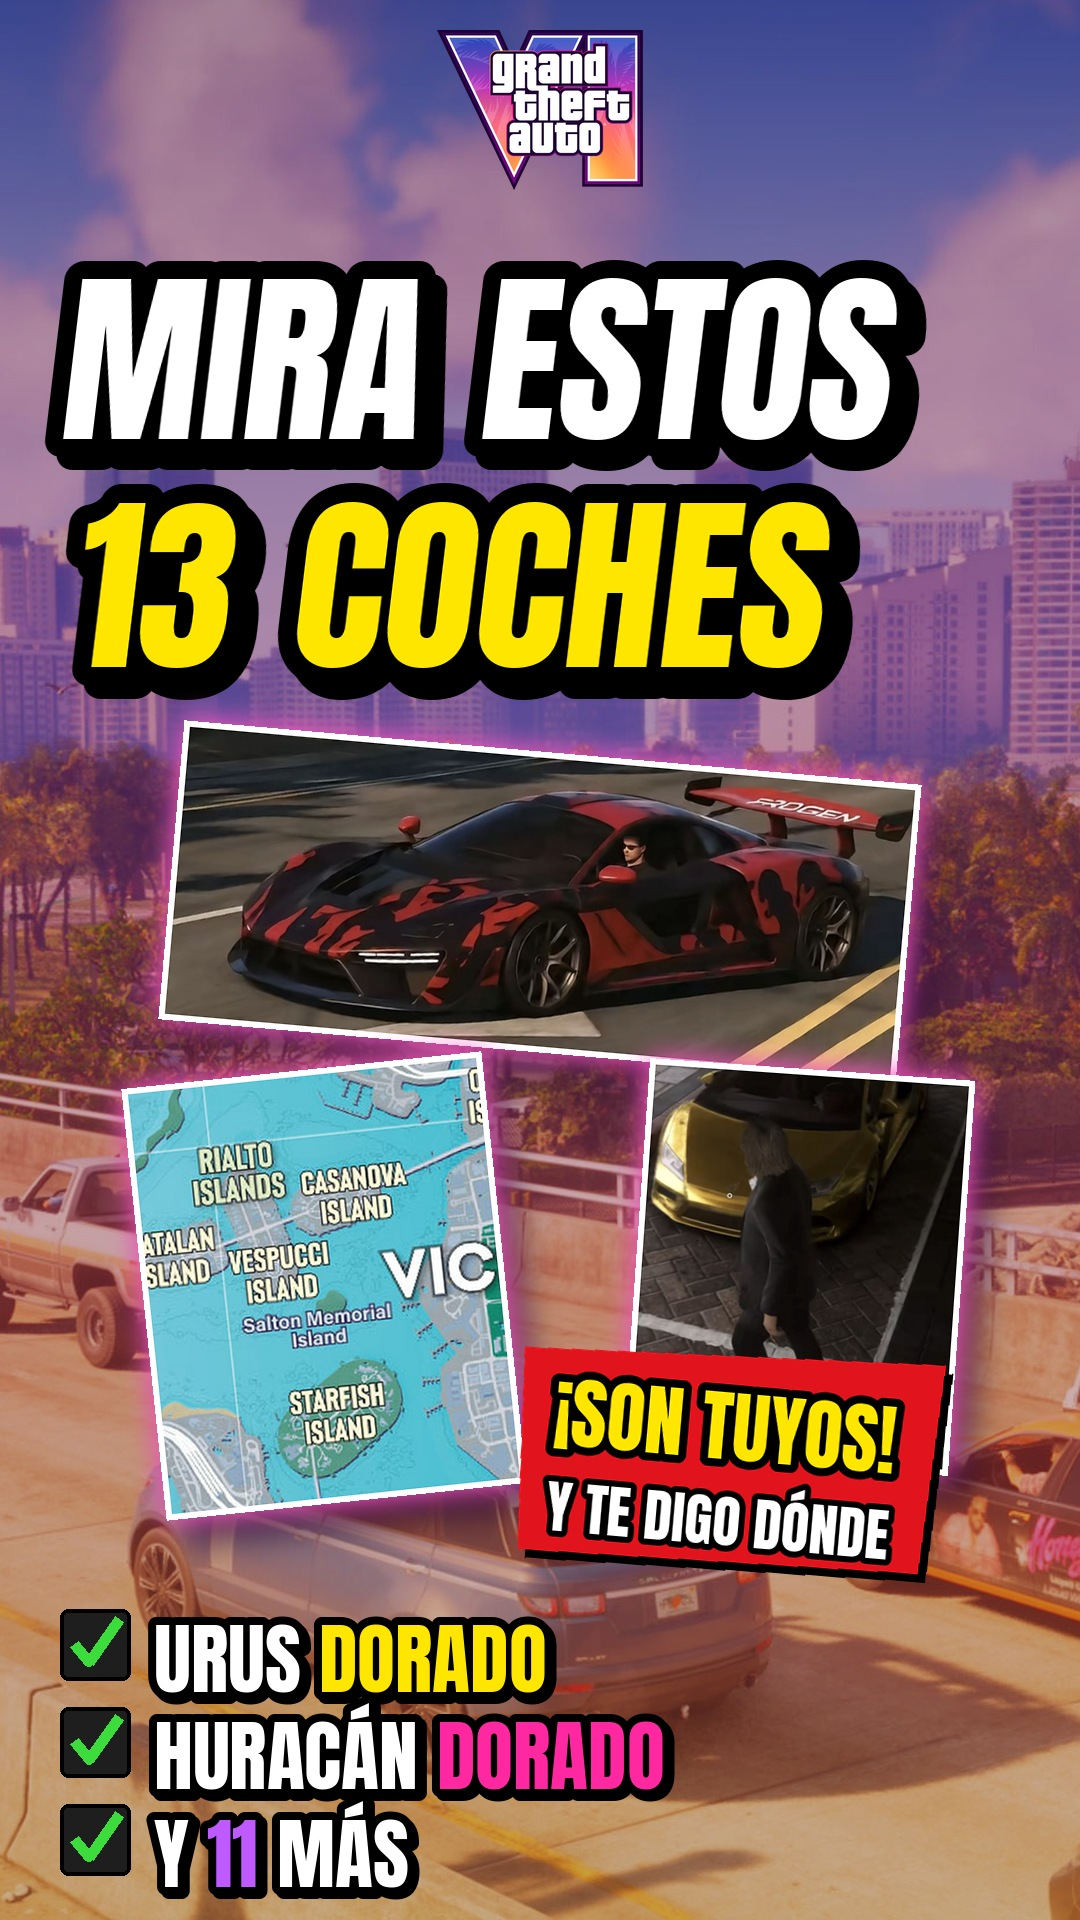
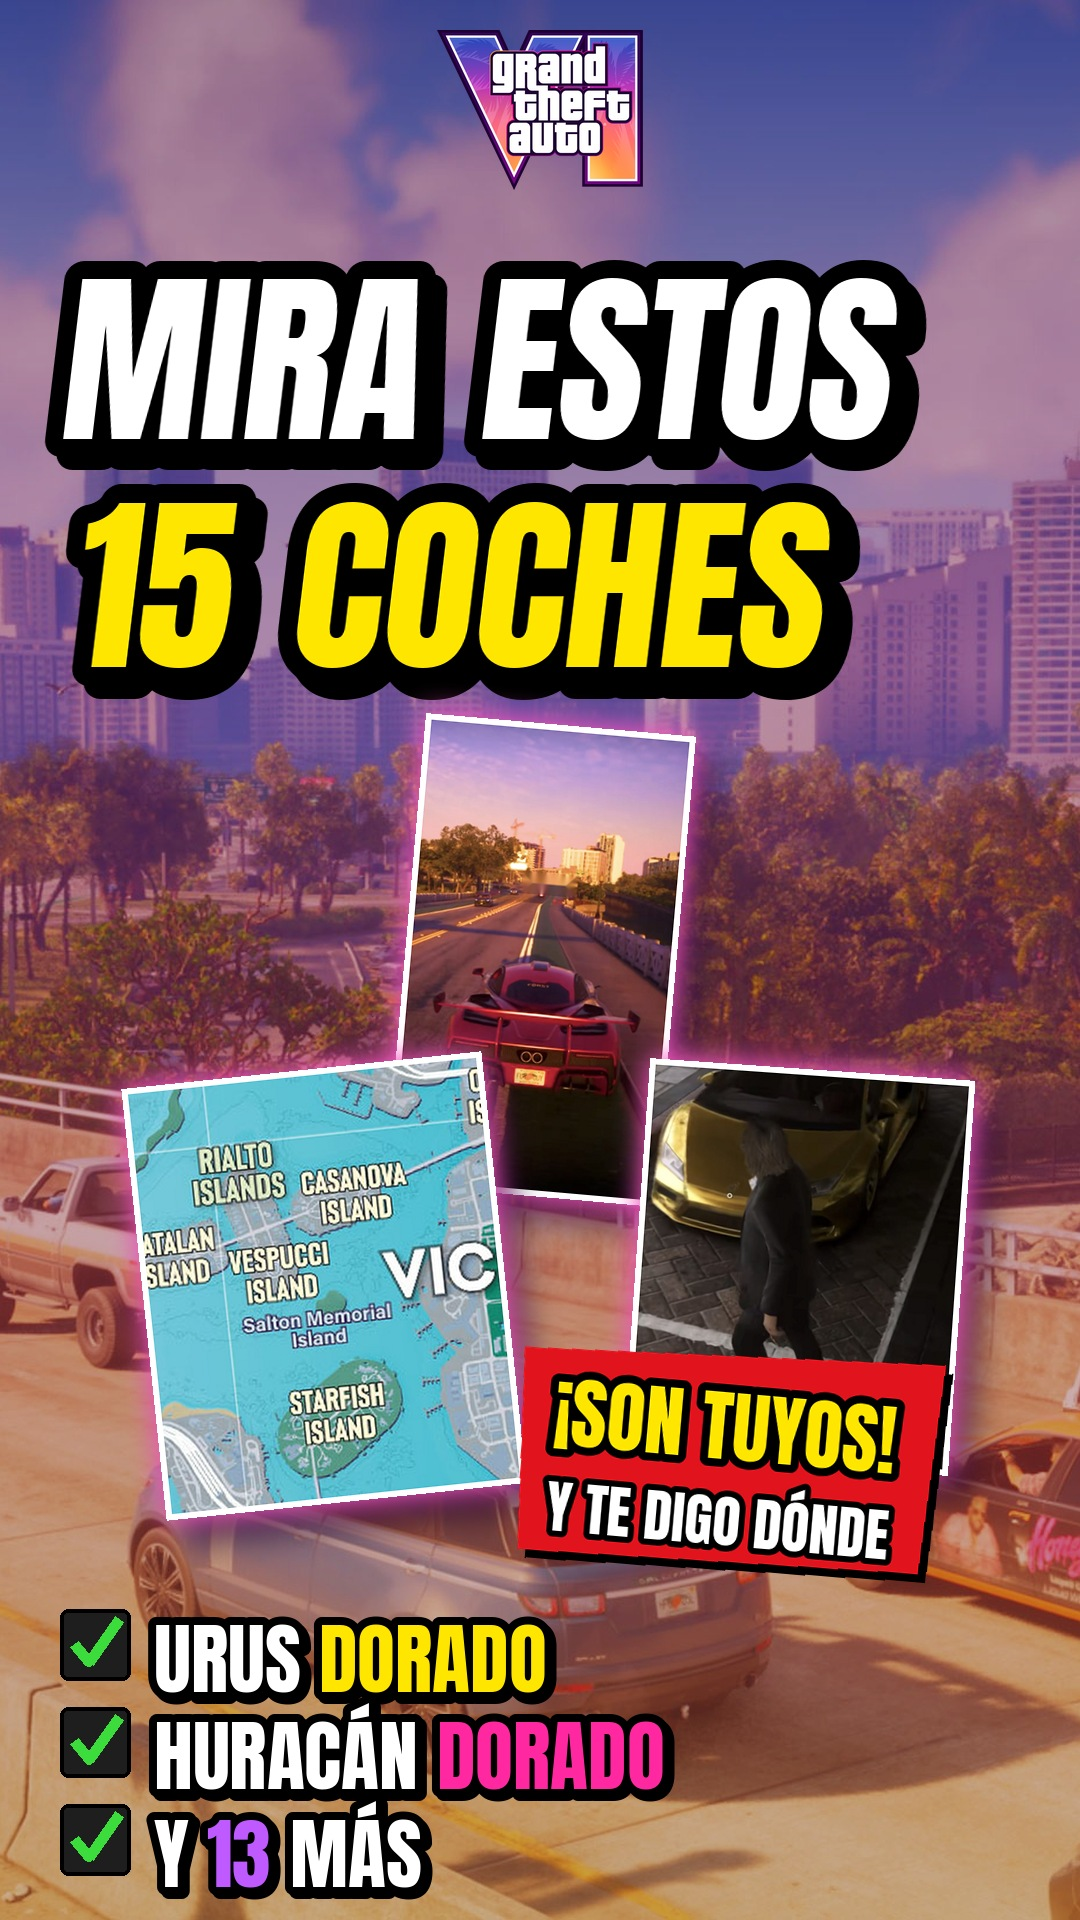
Coches que puedes conseguir: 15 coches (Emerus de la mansión, Emerus morado y Toros de La Perle)
Claude-Session: https://claude.ai/code/session_013MoWpNiFMbWerhH5TTscuF

Changed region(s): [[0.1222, 0.25, 0.8861, 0.6562], [0.2139, 0.9375, 0.3972, 1.0]]

diff --git a/canal/guiones_dinero.py b/canal/guiones_dinero.py
@@ -566,15 +566,17 @@ V("d28-coches-reales", "DESDE EL CAP. 2",
    B("Envíaselo a ese amigo que se sabe todos los coches. Y pregúntale...", ["img:u_lb_evo!"]),
   ], titulo="LOS COCHES🏎 que puedes tener en gta VI"),
 V("d29-coches-raros", "¡SON TUYOS!",
-  "Mira los 13 coches que puedes conseguir en GTA 6 y dónde está cada uno 🏎 El Emerus rojo, el clon del Eclipse, el Lamborghini Urus dorado (Pegassi Toros), el Huracán dorado (Pegassi Tempesta), los del garaje de Starfish Island y más\n\n"
+  "Mira los 15 coches que puedes conseguir en GTA 6 y dónde está cada uno 🏎 Los dos Emerus (el rojo de Vespucci y el morado de Chatfield), el clon del Eclipse, los dos Lamborghini Urus dorados (Pegassi Toros), el Huracán dorado (Pegassi Tempesta), los del garaje de Starfish Island y más\n\n"
   "gta 6, coches gta 6, lamborghini gta 6, coches raros gta 6, coche gratis gta 6, urus gta 6, huracan gta 6, pegassi toros gta 6, starfish island gta 6, casanova island gta 6\n\n"
   "#shorts #videoshorts #gta6 #cochesgta6 #lamborghini",
   [
-   B("¡Mira los *trece* coches que puedes conseguir en GTA seis! Este Emerus rojo y negro puede ser tuyo...",
-     ["img:u_rc_emerus!"], stat="13 COCHES", golpe=True),
-   B("... en la puerta de una mansión de Vespucci Island.", ["map:ves"]),
+   B("¡Mira los *quince* coches que puedes conseguir en GTA seis! Este Emerus rojo puede ser tuyo...",
+     ["img:u_vesp_emerus3"], stat="15 COCHES", golpe=True),
+   B("... en la mansión de un narco de Vespucci Island. Entra por detrás y te lo llevas.", ["map:ves", "img:u_vesp_emerus"], cortes=["Entra"]),
    B("En la misma isla, en un garaje, el clon del Eclipse verde de A todo gas.", ["img:u_rc_penumbra!"],
      gfx=[dict(t="icono", emoji="🟢", titulo="MAIBATSU PENUMBRA", sub="Vespucci Island · en un garaje", y=0.2, desde="garaje")]),
+   B("Y otro Emerus, el morado, en el almacén Chatfield, junto a Waxman Island. La caja fuerte es la cinco ocho cero cero.", ["map:cf"],
+     gfx=[dict(t="icono", emoji="💜", titulo="EMERUS MORADO", sub="Chatfield Storage · caja 5800", y=0.78, desde="morado")]),
    B("Un deportivo verde claro, en Stockyard, al norte de Bayside.", ["map:stock"],
      gfx=[dict(t="icono", emoji="💚", titulo="DEPORTIVO VERDE CLARO", sub="Stockyard · al norte de Bayside", y=0.78, desde="deportivo")]),
    B("Un muscle car negro y naranja, en la zona industrial de Ambrosia.", ["map:amb"],
@@ -589,6 +591,8 @@ V("d29-coches-raros", "¡SON TUYOS!",
      ["map:casa", "img:u_lb_urus!", "img:u_lb_urus2!"], cortes=["Lamborghini", "Matrícula"], riser=True,
      gfx=[dict(t="icono", emoji="🏎", titulo="PEGASSI TOROS", sub="= Lamborghini Urus", y=0.2, desde="Pegassi", hasta="Matrícula"),
           dict(t="icono", emoji="💰", titulo="CASH TALKS", sub="la matrícula", y=0.2, desde="Matrícula")]),
+   B("Y otro Urus dorado, en un narcopiso de La Perle. Salta la valla roja del lateral.", ["map:lp", "img:u_toros_coche!"], cortes=["Salta"],
+     gfx=[dict(t="icono", emoji="🚧", titulo="LA VALLA ROJA", sub="entra por el lateral", y=0.2, desde="valla")]),
    B("A los pies de la torre Crimson Palms, en Vice City, un Huracán dorado: el Pegassi Tempesta.",
      ["img:u_lb_torre!", "img:u_lb_huracan!"], cortes=["Huracán"],
      gfx=[dict(t="icono", emoji="🐂", titulo="PEGASSI TEMPESTA", sub="= Lamborghini Huracán", y=0.2, desde="Tempesta")]),
@@ -600,12 +604,14 @@ V("d29-coches-raros", "¡SON TUYOS!",
      gfx=[dict(t="icono", emoji="🔑", titulo="DESDE EL CAPÍTULO 2", sub="si no está, vuelve más tarde", y=0.2, desde="capítulo")]),
    B("Envíaselo a ese amigo que sigue con el coche del principio. Y dile...", ["ol_078"]),
   ], titulo="MIRA ESTOS🏎 coches que puedes conseguir en gta 6",
-  mapas=dict(ves=dict(lugar="Vespucci Island", desde_lugar="Vice City", zoom=(1.6, 4.6), pins=[("Vespucci Island", "mansión", "El Emerus")]),
+  mapas=dict(ves=dict(lugar="Vespucci Island", desde_lugar="Vice City", zoom=(1.6, 4.6), pins=[("Vespucci Island", "narco", "La mansión")]),
              stock=dict(lugar="Stockyard", desde_lugar="Vespucci Island", zoom=(3.0, 4.6), pins=[("Stockyard", "Stockyard", "Stockyard")]),
              amb=dict(lugar="Ambrosia", desde_lugar="Stockyard", zoom=(1.8, 4.0), pins=[("Ambrosia", "Ambrosia", "Ambrosia")]),
              star=dict(lugar="Starfish Island", desde_lugar="Vice City", zoom=(2.4, 4.8), pins=[("Starfish Island", "Starfish", "La mansión")]),
              capri=dict(lugar="Capri", desde_lugar="Port Gellhorn", zoom=(2.4, 4.4), pins=[("Capri", "Capri", "Capri · el garaje")]),
-             casa=dict(lugar="Casanova Island", desde_lugar="Starfish Island", zoom=(3.4, 4.8), pins=[("Casanova Island", "Casanova", "El Toros dorado")]))),
+             casa=dict(lugar="Casanova Island", desde_lugar="Starfish Island", zoom=(3.4, 4.8), pins=[("Casanova Island", "Casanova", "El Toros dorado")]),
+             cf=dict(lugar="Chatfield Storage", desde_lugar="Vespucci Island", zoom=(3.0, 4.6), pins=[("Chatfield Storage", "Chatfield", "Chatfield Storage")]),
+             lp=dict(lugar="La Perle", desde_lugar="Casanova Island", zoom=(2.0, 4.4), pins=[("La Perle", "Perle", "El narcopiso")]))),
 ]
 # portadas «cargadas» hechas a mano (estilo de la 2.ª referencia): el motor las pone como último fotograma
 for _v in VIDEOS:

diff --git a/canal/portadas_especiales_d29.py b/canal/portadas_especiales_d29.py
@@ -8,8 +8,8 @@ W, H = 1080, 1920
 b = mn._fondo("extra/x050_hero_background_ultrawide.jpg", W, H, (0.5, 0.5)).convert("RGBA")
 b.alpha_composite(Image.new("RGBA", (W, H), (25, 5, 45, 60)))
 mn.pegar_logo(b, "extra/x126_poster_logo.png", W / 2, 30, 160, centro=True)
-mn.texto_color(b, ["MIRA ESTOS", "*13* *COCHES*"], W * .47, 215, W - 220, 190)
-mn._figura(b, dict(img="u_rc_emerus.jpg", x=.5, y=.47, h=.15, rot=-5, marco=True), W, H)
+mn.texto_color(b, ["MIRA ESTOS", "*15* *COCHES*"], W * .47, 215, W - 220, 190)
+mn._figura(b, dict(img="u_vesp_emerus3.jpg", x=.5, y=.5, h=.24, rot=-5, marco=True), W, H)
 m = Image.open(mn._ruta("oficial_extra/Leonida_Map_Poster.jpg")).convert("RGB")
 cx, cy = .786 * m.width, .49 * m.height
 r = .045 * m.width
@@ -21,5 +21,5 @@ d = None
 mn._figura(b, dict(img=m, x=.3, y=.67, h=.22, rot=6, marco=True), W, H)
 mn._figura(b, dict(img="u_lb_huracan.jpg", x=.74, y=.66, h=.2, rot=-4, marco=True), W, H)
 mn.sello(b, "¡SON TUYOS!", "Y TE DIGO DÓNDE", W * .68, 1460, 420, rot=-5)
-mn.lista(b, ["URUS *DORADO*", "HURACÁN _DORADO_", "Y ~11~ MÁS"], 60, 1600, 78)
+mn.lista(b, ["URUS *DORADO*", "HURACÁN _DORADO_", "Y ~13~ MÁS"], 60, 1600, 78)
 b.convert("RGB").save(sys.argv[1], quality=93)
